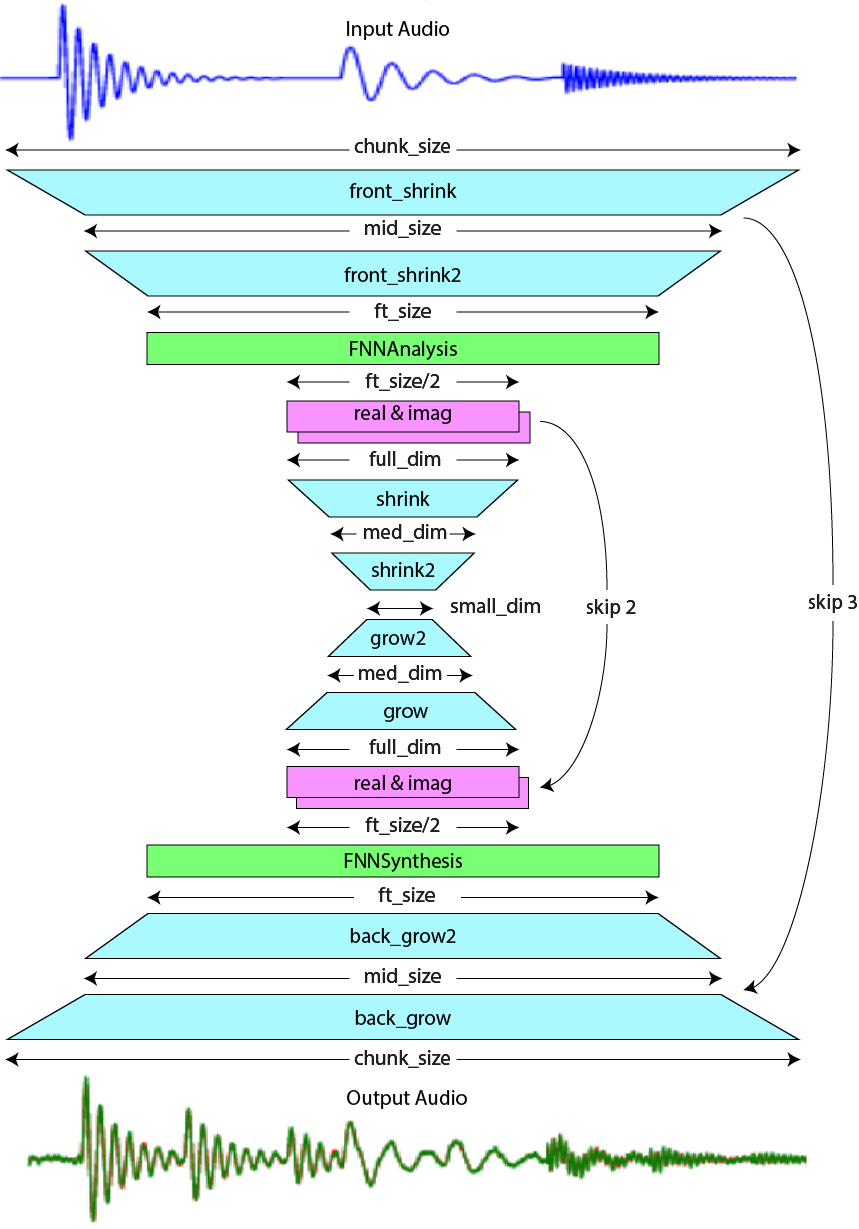
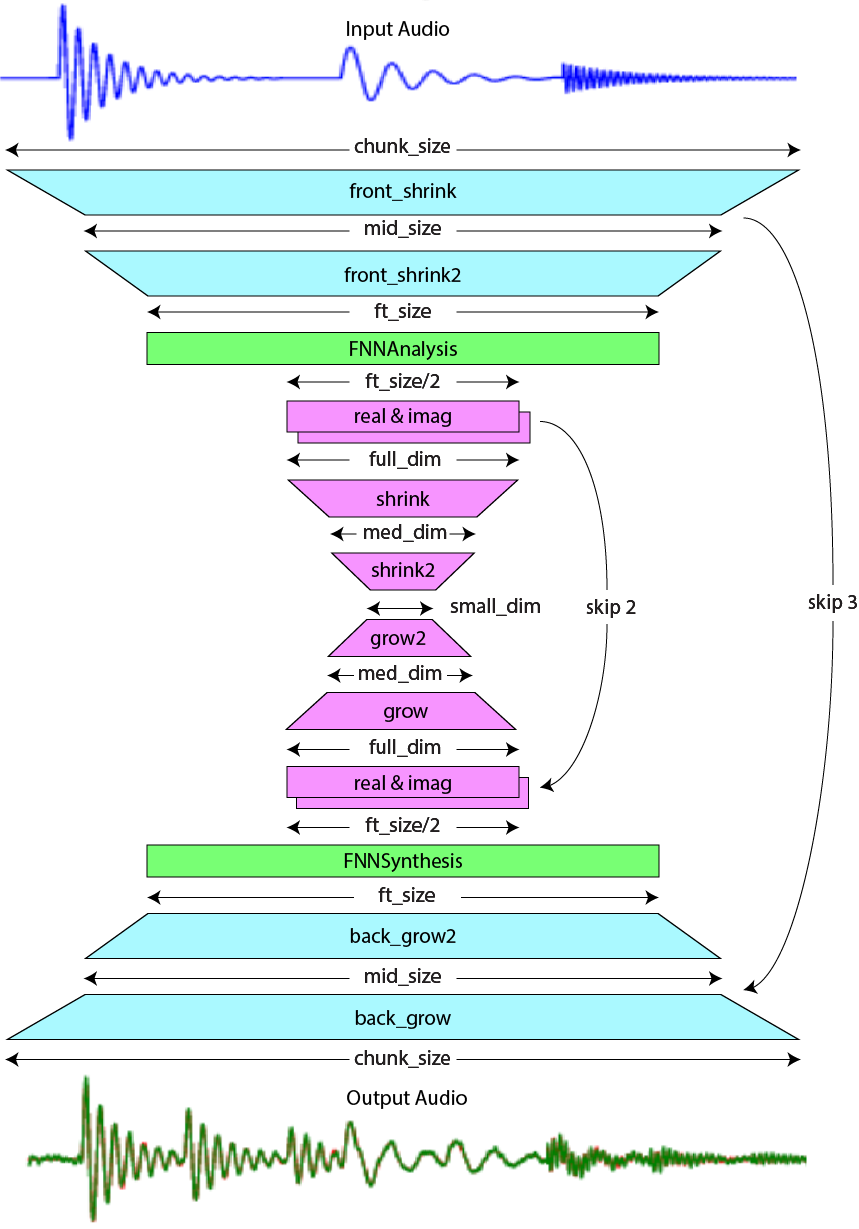
improved diagram with time/spectral coloring

Changed region(s): [[0.3329, 0.371, 0.6054, 0.6184], [0.4237, 0.3092, 0.5146, 0.3401]]

diff --git a/docs/README.md b/docs/README.md
@@ -6,4 +6,7 @@ Here's a picture of the 'Spectral Shrink-Grow' model, where information flows
 from top to bottom, and all layers are 'dense'/'Linear', all activations are
 LeakyReLU (tried ELU & SELU, this worked best).
 
+Parts in cyan are transformations in the time domain, parts in purple are in the
+spectral domain, and the green FNN routines convert between the two. 
+
 ![model_diagram](model_diagram.png)
